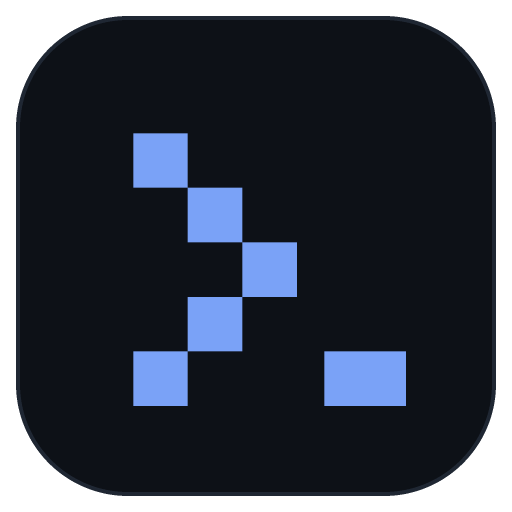
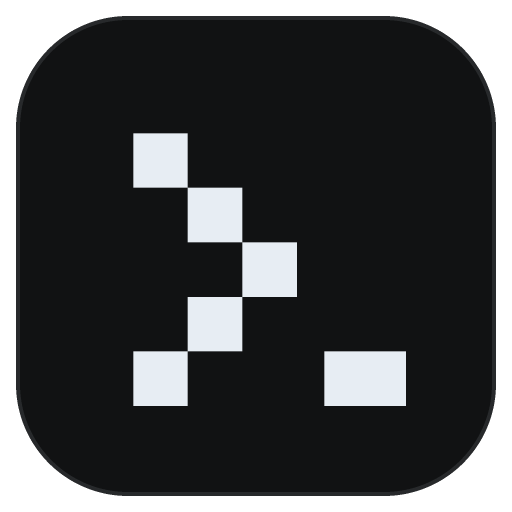
feat: make the monochrome theme the default look
The launcher icon was drawn in the steel-blue accent while the bubble could
be any of the seven themes, so the two only matched by accident. Default to
monochrome and draw the icon from that theme's own tokens (#111213 tile,

Only fresh installs move: loadConfig keeps whatever theme is already saved.

Changed region(s): [[0.25, 0.25, 0.5938, 0.8125], [0.625, 0.6875, 0.8125, 0.8125]]

diff --git a/src/main/themes.js b/src/main/themes.js
@@ -10,4 +10,4 @@ export const THEMES = {
   matrix: { label: 'matrix code' },
 };
 
-export const DEFAULT_THEME = 'aco';
+export const DEFAULT_THEME = 'mono';

diff --git a/changelogs/20260819-1741-feat-tema-monocromo-padrao.md b/changelogs/20260819-1741-feat-tema-monocromo-padrao.md
@@ -1,0 +1,1 @@
+- O monocromo passa a ser o tema padrão de instalação nova, e o ícone do app segue as cores dele (quem já escolheu um tema continua com o seu)
